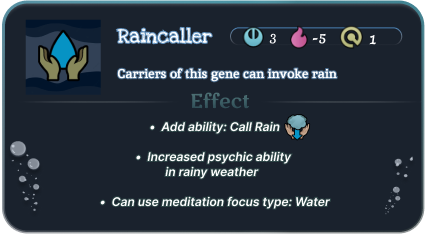
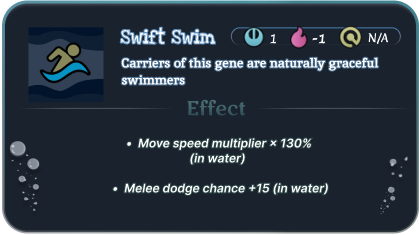
Yesterday's hotfix + fixed Steam page SwiftSwim graphic

diff --git a/Source/StagzMerfolk/BackwardsCompatibility/BackCompatibilityConverter_1_6.cs b/Source/StagzMerfolk/BackwardsCompatibility/BackCompatibilityConverter_1_6.cs
@@ -8,7 +8,6 @@ namespace StagzMerfolk;
 
 public class BackCompatibilityConverter_1_6 : BackCompatibilityConverter
 {
-    //TODO TODO TODO
     public override bool AppliesToVersion(int majorVer, int minorVer)
     {
         return majorVer switch
